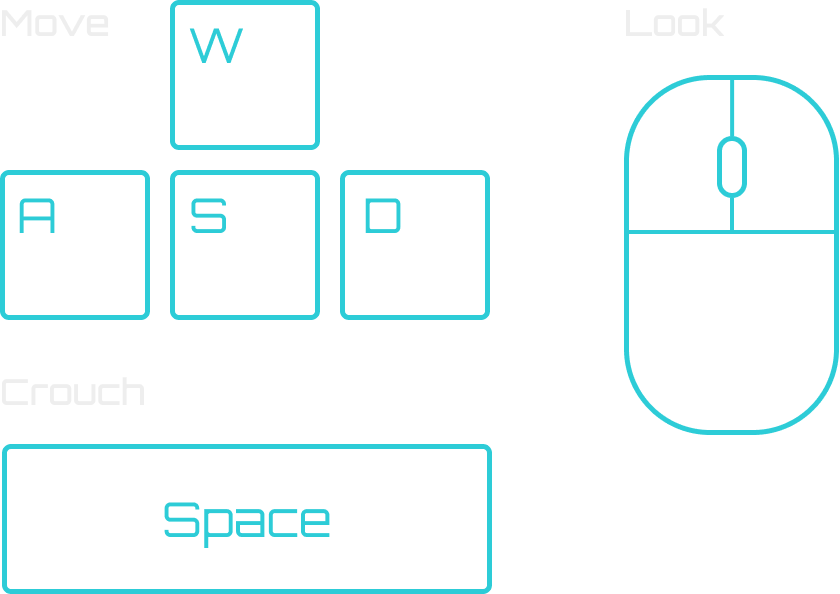
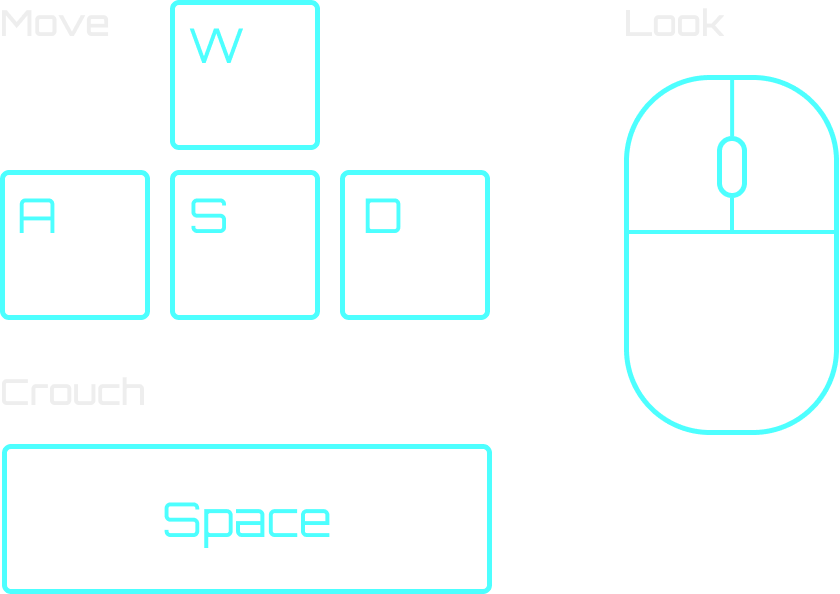
add additional turquoise details to match the rest of the levels

diff --git a/elin/index.html b/elin/index.html
@@ -27,10 +27,13 @@
             This must be it, I'm finally here! <br>
             The headquarters of the earth is actually much smaller than expected..
             I have 60 minutes left until the sun goes out, but if I made it this far that shouldn't be a problem.
-            Now just let me find the darn button!
+            Now just let me find that darn button!
         </p>
+        <img src="./assets/images/controls.png"/>
         <button onclick="closePopup()">Close</button>
     </div>
+
+    <button id="info-button" onclick="displayPopup()">i</button>
 
     <a-scene inspector-plugin-recast>
 
@@ -58,10 +61,10 @@
                 scale="0.5 0.5 0.5"></a-entity>
         </a-entity>
 
-        <a-entity id="keyboard" super-keyboard="imagePath: assets/images/;" keyboard-functions position="2.24 2.3 1.76"
+        <a-entity id="keyboard" super-keyboard="imagePath: assets/images/; inputColor: #4dffff; keyColor: #4dffff; keyHoverColor: #0f4c51; keyPressColor: #4dffff" keyboard-functions position="2.24 2.3 1.76"
             rotation="-30 90 0" scale="3 2.5 1"></a-entity>
 
-        <a-entity id="numpad" super-keyboard="imagePath: assets/images/; maxLength: 3; model: numpad;"
+        <a-entity id="numpad" super-keyboard="imagePath: assets/images/; maxLength: 3; model: numpad; inputColor: #4dffff; keyColor: #4dffff; keyHoverColor: #0f4c51; keyPressColor: #4dffff"
             numpad-keyboard-functions position="-2.75 2.1 3.1" rotation="-30 -90 0" scale="2.8 2.4 1"></a-entity>
 
         <a-entity id="marker" marker-function class="clickable" gltf-model="#marker" position="-2.75 1.1 3.35"

diff --git a/elin/styles.css b/elin/styles.css
@@ -7,8 +7,8 @@
 :root {
     --dark: #0f4c51;
     --dark-opacity: rgba(15, 76, 81, 0.9);
-    --light: #2dccd7;
-    --light-opacity: rgba(45, 204, 215, 0.8);
+    --light: #4dffff;
+    --light-opacity: rgba(77, 255, 255, 0.8);
     --white: #eeeeee;
     --main-font: 'Karla', sans-serif;
 }
@@ -61,6 +61,6 @@ p {
     border: 3px var(--light) solid;
     width: 3rem;
     height: 3rem;
-    border-radius: 8px;
+    border-radius: 4px;
     visibility: hidden;
 }

diff --git a/elin/README.md b/elin/README.md
@@ -31,7 +31,7 @@ This is the last level in the story of "The Button" and you are located in the h
 
 ### :crossed_fingers: Nice to haves:
 - [x] Add some sort of "instruction-panel"
-- [ ] Add some turquoise details to match the rest of the levels
+- [x] Add some turquoise details to match the rest of the levels
 - [ ] Aftertexts on click of the button
 - [x] Add loading-screen with a bit of context and story-telling
 - [ ] Robot-pinguin that can give you hints if you get stuck
